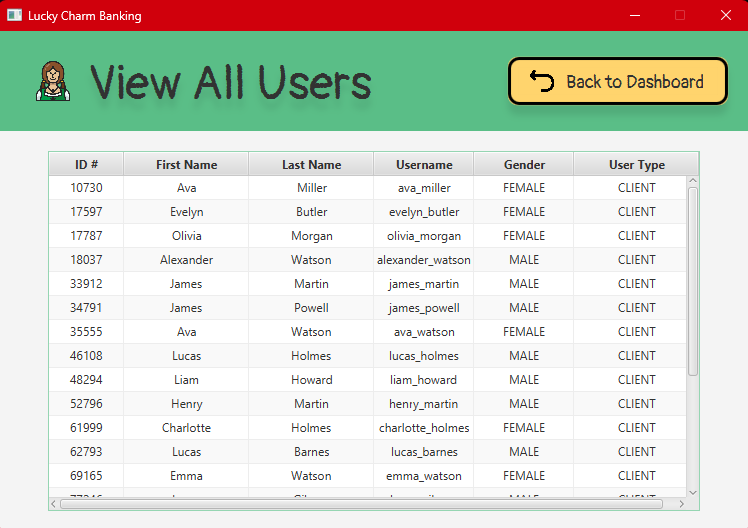
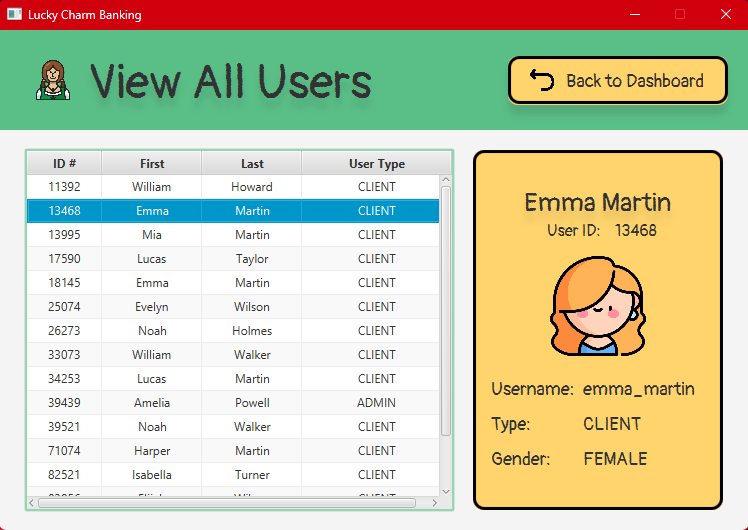
Updated Views All Users Frame

diff --git a/src/controllers/admin/ViewUsersController.java b/src/controllers/admin/ViewUsersController.java
@@ -1,5 +1,6 @@
 package controllers.admin;
 
+import java.io.File;
 import java.net.URL;
 import java.util.ArrayList;
 import java.util.List;
@@ -9,9 +10,12 @@ import javafx.collections.FXCollections;
 import javafx.collections.ObservableList;
 import javafx.fxml.Initializable;
 import javafx.scene.control.Button;
+import javafx.scene.control.Label;
 import javafx.scene.control.TableColumn;
 import javafx.scene.control.TableView;
 import javafx.scene.control.cell.PropertyValueFactory;
+import javafx.scene.image.Image;
+import javafx.scene.image.ImageView;
 import javafx.stage.Stage;
 import models.Model;
 import models.main.*;
@@ -27,8 +31,14 @@ public class ViewUsersController implements Initializable {
 	public TableColumn<User, String> ColumnFirstName;
 	public TableColumn<User, String> ColumnLastName;
 	public TableColumn<User, String> ColumnType;
-	public TableColumn<User, String> ColumnGender;
-	public TableColumn<User, String> ColumnUsername;
+
+	// User Card Attributes
+	public Label NameField;
+	public Label IDField;
+	public ImageView ImageField;
+	public Label TypeField;
+	public Label UsernameField;
+	public Label GenderField;
 
 	// Utility Attributes
 	public Button GoBackButton;
@@ -42,17 +52,28 @@ public class ViewUsersController implements Initializable {
 	@Override
 	// Initialize Method
 	public void initialize(URL arg0, ResourceBundle arg1) {
-		// Initialize Frame
+		// Initialize Frame and Add Listeners
 		initializeFrame();
-
-		// Initialize OnClick Action of Buttons
-		GoBackButton.setOnAction(event -> handleGoBack());
+		addListeners();
 	}
 
 	// Initialize Frame Attributes
 	private void initializeFrame() {
 		initializeTableColumns();
 		displayUserData();
+	}
+
+	// Initialize OnClick Actions for All Buttons
+	private void addListeners() {
+		// Set a Listener on Table View to Update User Data When a Row is Selected
+		TableOfUsers.getSelectionModel().selectedItemProperty().addListener((obs, oldSelection, newSelection) -> {
+			if (newSelection != null) {
+				updateUserCard(newSelection);
+			}
+		});
+
+		// Initialize OnClick Action of Buttons
+		GoBackButton.setOnAction(event -> handleGoBack());
 	}
 
 	// Event: "Go Back" Button is Clicked
@@ -69,8 +90,6 @@ public class ViewUsersController implements Initializable {
 		ColumnFirstName.setCellValueFactory(new PropertyValueFactory<>("firstName"));
 		ColumnLastName.setCellValueFactory(new PropertyValueFactory<>("lastName"));
 		ColumnType.setCellValueFactory(new PropertyValueFactory<>("type"));
-		ColumnUsername.setCellValueFactory(new PropertyValueFactory<>("username"));
-		ColumnGender.setCellValueFactory(new PropertyValueFactory<>("gender"));
 	}
 
 	// Display User Data
@@ -82,6 +101,44 @@ public class ViewUsersController implements Initializable {
 		} catch (Exception e) {
 			System.out.println("ERROR: Cannot Display User Data!");
 		}
+	}
+
+	// Update User Card
+	private void updateUserCard(User user) {
+		// Fix Image URL
+		String gender = user.getGender();
+		String imageURL = fixImage(user.getImageURL(), gender);
+
+		// Update User Card UI based on Selected User
+		IDField.setText(String.valueOf(user.getID()));
+		NameField.setText(user.getFirstName() + " " + user.getLastName());
+		ImageField.setImage(new Image(imageURL));
+		TypeField.setText(user.getType());
+		UsernameField.setText(user.getUsername());
+		GenderField.setText(gender);
+	}
+
+	// Fix ImageURL Based on Type
+	private String fixImage(String image, String gender) {
+		// Initialize Empty Location
+		String mainLocation = System.getProperty("user.dir") + "\\resources\\images";
+		String imageLocation = "";
+
+		// Set Image Folder Location based on Type
+		if ("MALE".equalsIgnoreCase(gender)) {
+			imageLocation = mainLocation + "\\males\\" + image;
+		} else if ("FEMALE".equalsIgnoreCase(gender)) {
+			imageLocation = mainLocation + "\\females\\" + image;
+		}
+
+		// Check if File Exists
+		File file = new File(imageLocation);
+		if (!file.exists()) {
+			imageLocation = mainLocation + "\\icons\\warning.png";
+		}
+
+		// Return Image Location
+		return imageLocation;
 	}
 
 	// Generic: Close Current Window

diff --git a/src/controllers/client/ClientDashboardController.java b/src/controllers/client/ClientDashboardController.java
@@ -81,7 +81,7 @@ public class ClientDashboardController implements Initializable {
 		Model.getInstance().getViewFactory().showChangePasswordFrame(client);
 	}
 
-	// Fix ImageURL Based on Type
+	// Fix ImageURL Based on Gender
 	private String fixImage(String image, String gender) {
 		// Initialize Empty Location
 		String mainLocation = System.getProperty("user.dir") + "\\resources\\images";

diff --git a/src/models/seeds/UserSeeds.java b/src/models/seeds/UserSeeds.java
@@ -30,7 +30,7 @@ public class UserSeeds {
 
 		// Generate Admin and Clients
 		generateAdmin();
-		generateClients(2);
+		generateClients(15);
 	}
 
 	// Generate Random Clients
